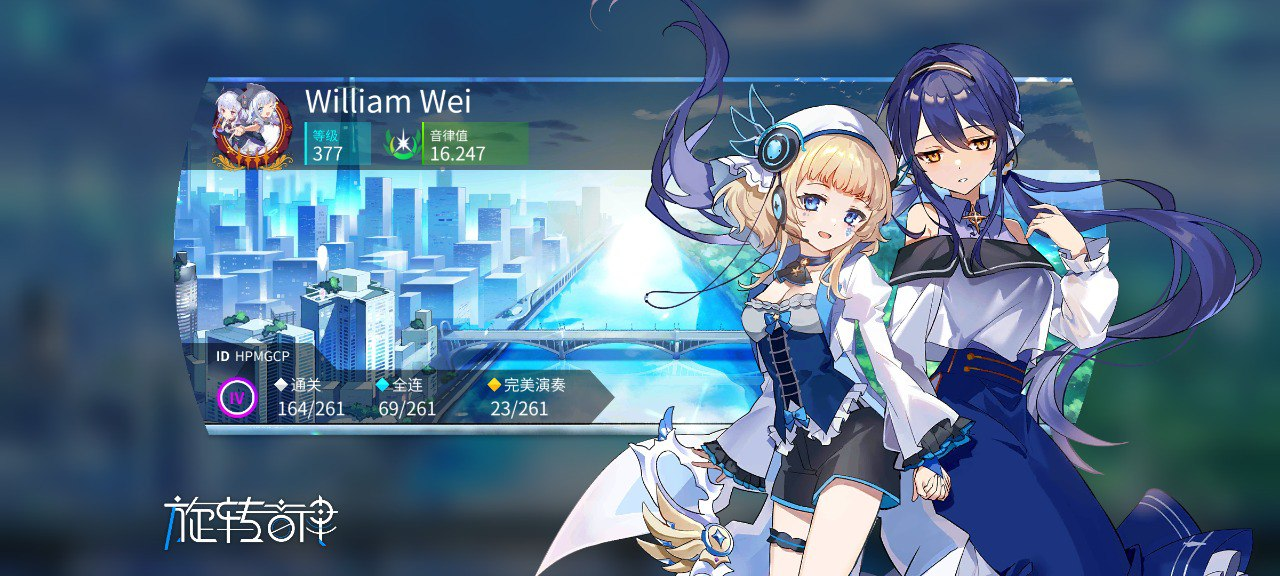
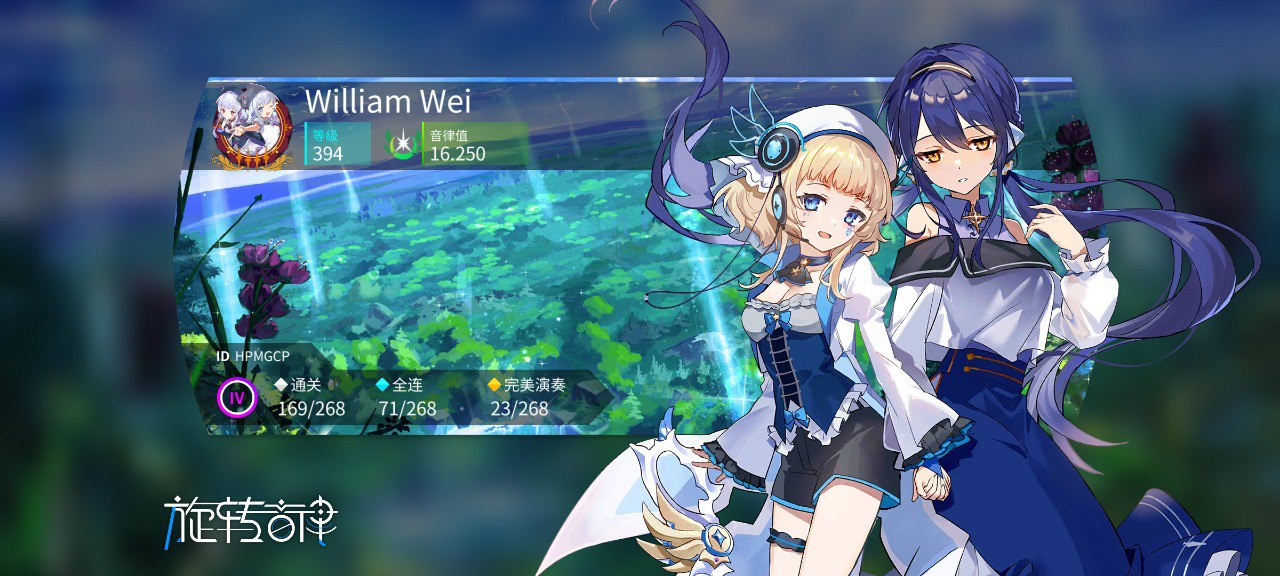
Update Notice

diff --git a/content/post/notice/index.md b/content/post/notice/index.md
@@ -15,13 +15,11 @@ categories:
 为确保可用性，本网站使用不同构建方式构建 ~~（白嫖免费服务の神）~~：
 
 * GitHub Pages（主站所在处）: [williamwei.top](https://williamwei.top)、[wiiiiamwei.github.io](https://wiiiiamwei.github.io)
-* Cloudflare Pages: [williamwei.pages.dev](https://williamwei.pages.dev)
-* Vercel: [blog.williamwei.top](blog.williamwei.top)、[williamwei.vercel.app](https://williamwei.vercel.app)
+* Cloudflare Pages: [williamwei.dpdns.org](https://williamwei.dpdns.org)、[williamwei.pages.dev](https://williamwei.pages.dev)
+* Vercel: [williamwei.us.kg](williamwei.us.kg)、[williamwei.vercel.app](https://williamwei.vercel.app)
 * Netlify: [williamwei.is-a.dev](https://williamwei.is-a.dev)、[willwell.netlify.app](https://willwell.netlify.app)
 
 当一个站点不可用时，你可尝试使用其他方式构建的站点。
-
-由于 us.kg 免费域名遭到过多滥用，域名下有太多滥用报告，该域名现在已经被停用，恢复时间未知。在此期间 [williamwei.us.kg](https://williamwei.us.kg) 将下线。
 
 考虑到隐私问题，所有的联系方式现已转到 [Gravatar](https://gravatar.com/realwilliamwei) 上。请使用头像下方的 Gravatar 图标或使用评论区联系我。你也可以点击下方的卡片：
 

diff --git a/content/page/about/index.md b/content/page/about/index.md
@@ -27,9 +27,9 @@ William Wei（男）
 * Arcaea（基本退坑，打不动啦）：Potential 10.42，好友码 `044 040 642`
 * AstroDX：已经达成上机前 w4+ 的奇怪成就（？），仍在努力中
 * 舞萌 DX：正在板子转世期，w3.5+，好友码 `212317908287344`
-* Deemo II：大魔法师成就（国际服），技巧分 318+，零氪藏品全收集，最常玩（因为长期有活动）
+* Deemo II：大魔法师成就（国际服），技巧分 319+，零氪藏品全收集，最常玩（因为长期有活动）
 * Phigros：RankingScore 14.13
-* Rotaeno：音律值 2.6 版本改版前 15.784，现改版后 16.247，好友码 `HPMGCP`，基本上只在有活动的时候高强度玩
+* Rotaeno：音律值 2.6 版本改版前 15.784，现改版后 16.250，好友码 `HPMGCP`，基本上只在有活动的时候高强度玩
 * Milthm，Muse Dash，Orzmic，等等
 
 想与我一起打音游？非常欢迎！请到[音游联系方式](/p/mug)找我。
